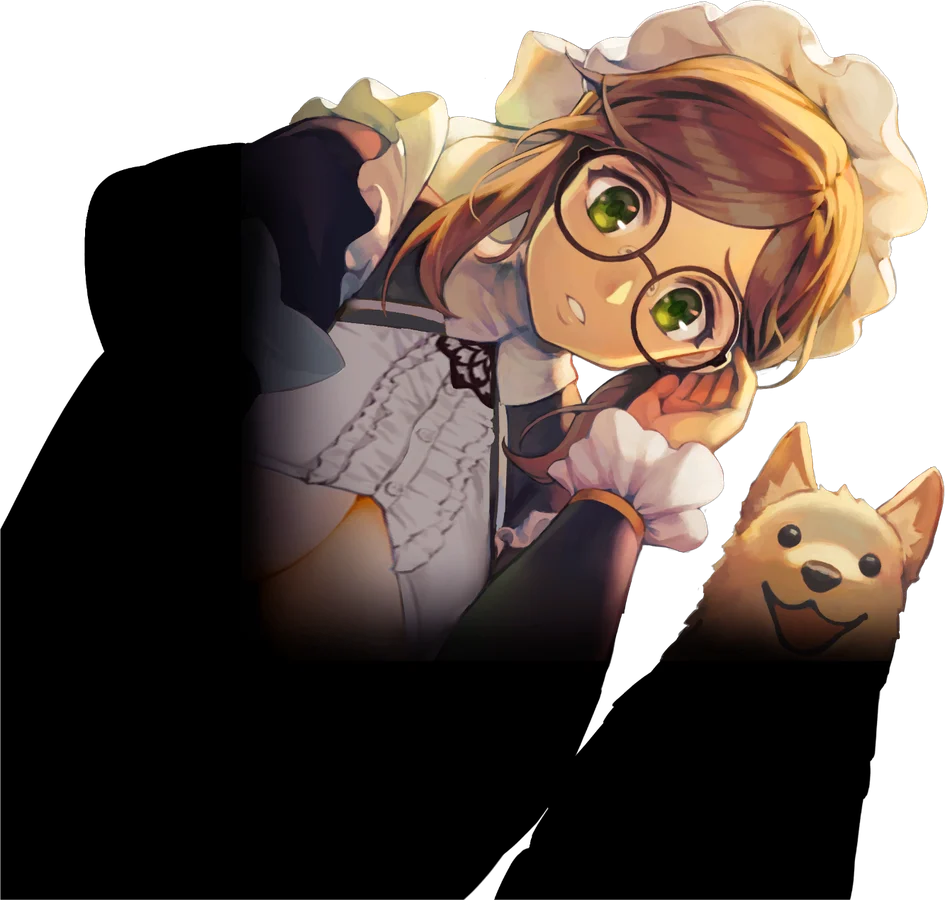
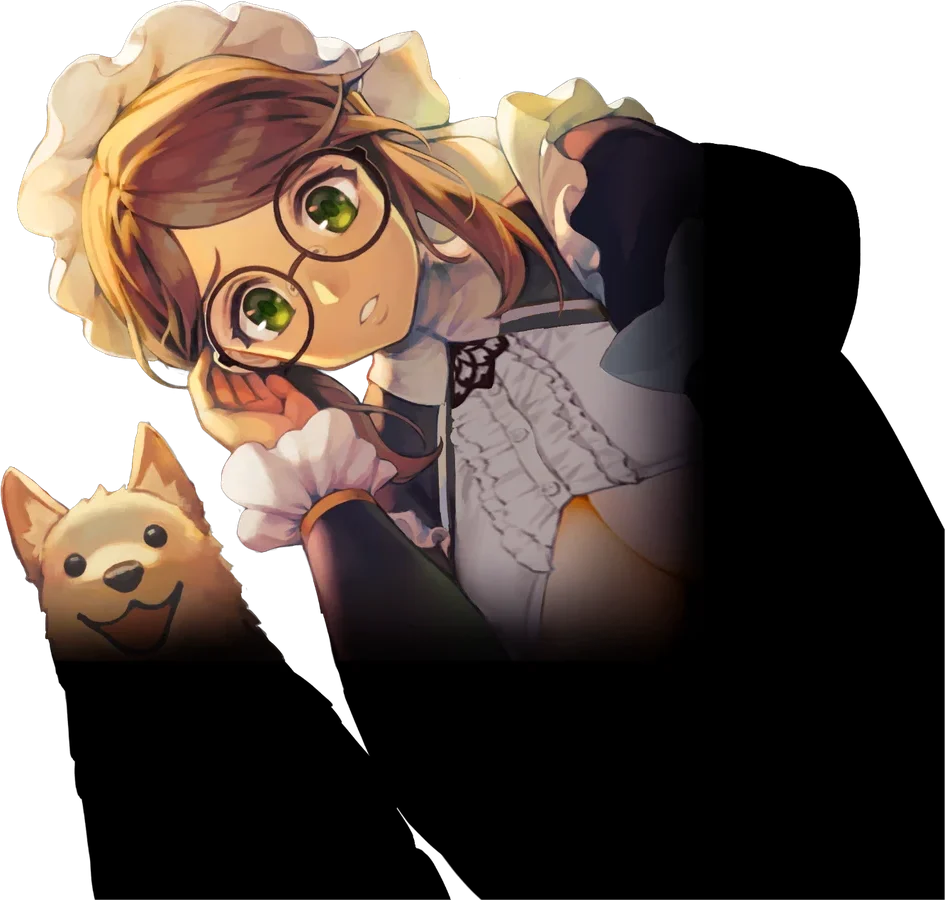
도입부 콘스탄챠 컷 그림 좌우 반전 바로잡기

diff --git a/tools/unity_ref/Portrait.cs b/tools/unity_ref/Portrait.cs
@@ -26,6 +26,10 @@ public static class RefPortrait
         var prefab = AssetDatabase.LoadAssetAtPath<GameObject>(prefabPath);
         var go = (GameObject)Object.Instantiate(prefab);
         go.transform.position = new Vector3(0, 0, 0);
+        // 컷 그림(_Dialog0*)은 프리팹 안의 좌우 반전을 원작 화면에서 쓰지 않는다: 원본 그림 방향으로 되돌린다
+        if (outName.Contains("_Dialog0"))
+            foreach (var t in go.GetComponentsInChildren<Transform>(true))
+                if (t.localScale.x < 0) t.localScale = new Vector3(-t.localScale.x, t.localScale.y, t.localScale.z);
         // 로비용 애니메이터가 붙어 있으면 첫 프레임 자세로
         var animator = go.GetComponentInChildren<Animator>(true);
         if (animator && animator.runtimeAnimatorController)
